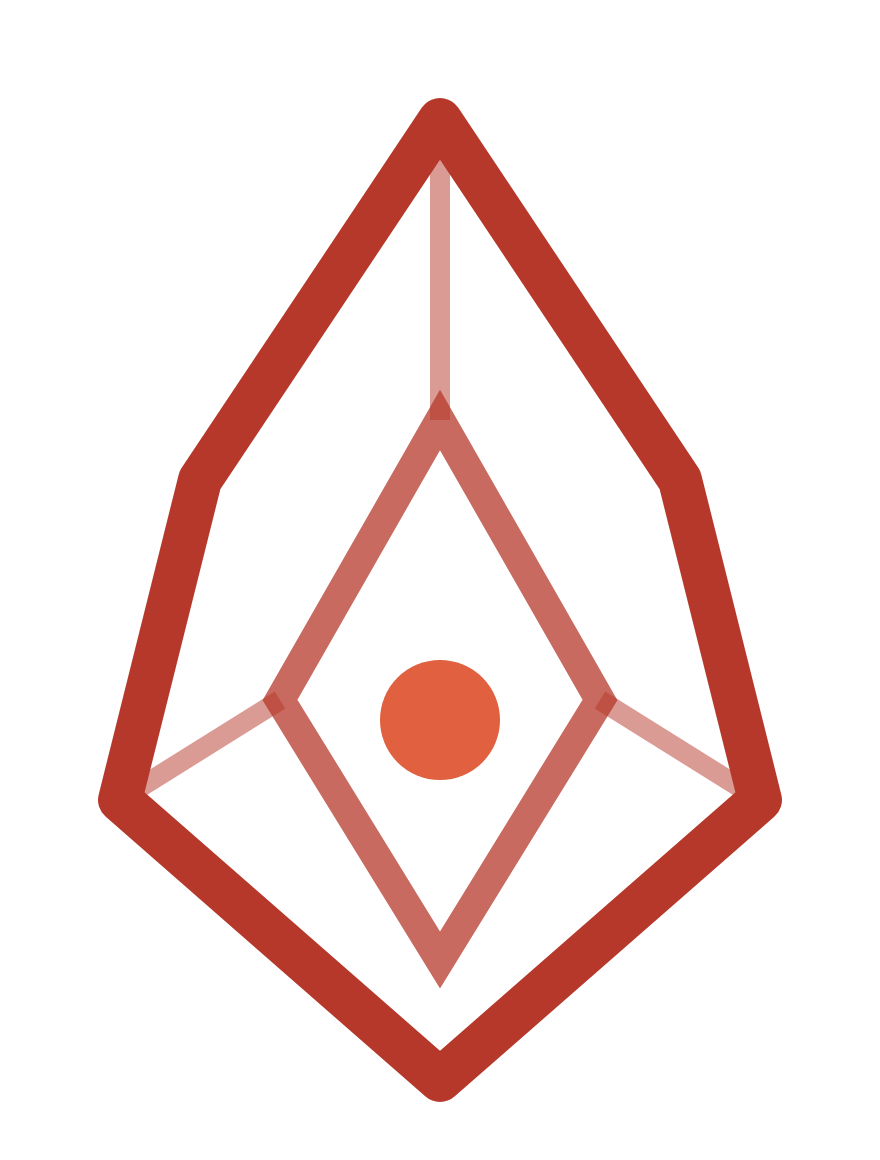
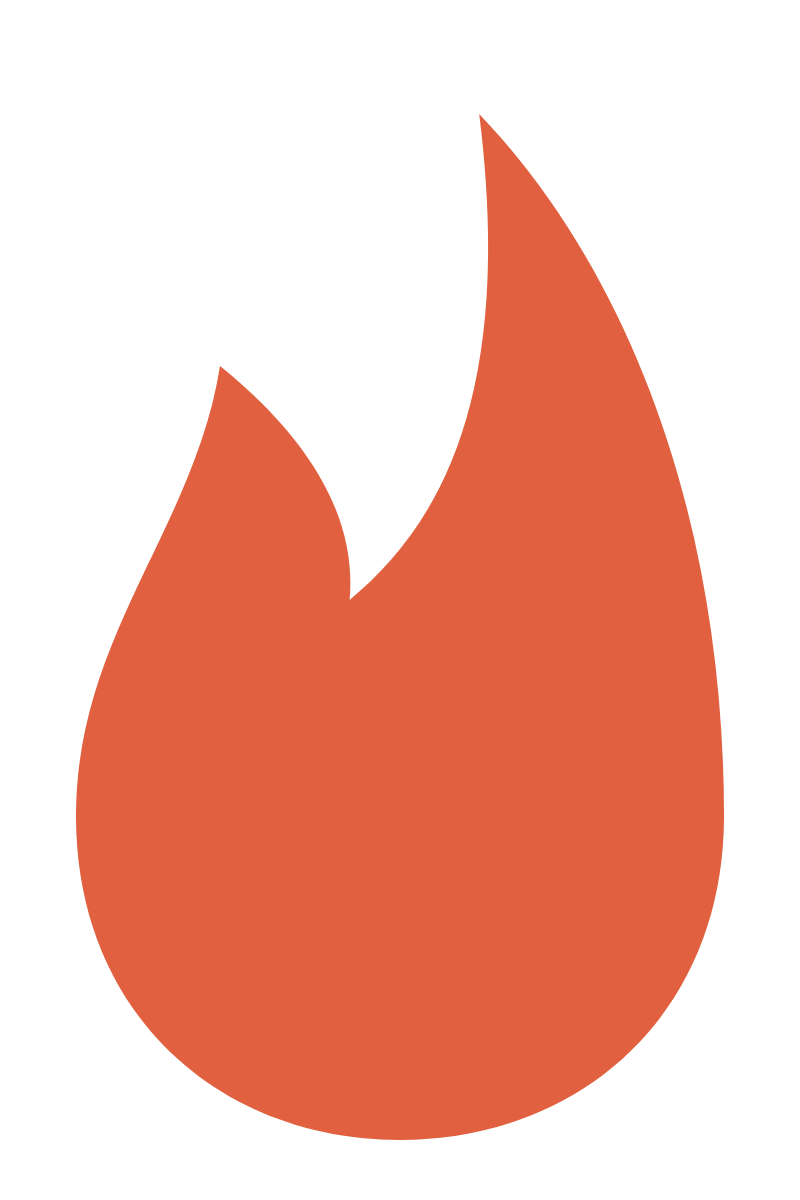
site update 2026-10-20 14:24
Claude-Session: https://claude.ai/code/session_019xwSd8AaEPZGR6L1pyav7d

diff --git a/index.html b/index.html
@@ -37,6 +37,8 @@ header{display:flex;align-items:center;justify-content:space-between;flex-wrap:w
 .word{display:inline-flex;align-items:baseline}
 .word .i{position:relative;display:inline-block}
 .word .i i{position:absolute;left:50%;border-radius:50%;background:var(--core);transform:translateX(-50%)}
+.word .i svg.fl{position:absolute;left:50%;top:.047em;width:.14em;height:.21em;transform:translateX(calc(-50% + .014em));overflow:visible}
+.word{letter-spacing:-.025em}
 nav{display:flex;gap:26px;flex-wrap:wrap;font-family:'IBM Plex Mono';font-size:12px;letter-spacing:2px;text-transform:lowercase}
 .hero{display:flex;flex-wrap:wrap;align-items:center;gap:56px;padding:64px 0 96px}
 .hero .copy{flex:999 1 520px;min-width:0;display:flex;flex-direction:column;gap:26px}
@@ -84,10 +86,7 @@ footer nav a{color:var(--muted)}footer nav a:hover{color:var(--core)}
 <body>
 <div class="wrap">
 <header>
-  <a class="logo" href="#top" aria-label="fâni home">
-    <svg width="22" height="30" viewBox="28 12 44 58" aria-hidden="true"><polygon points="50,18 62,36 66,52 50,66 34,52 38,36" fill="none" stroke="#B5382A" stroke-width="3.2" stroke-linejoin="round"/><polygon points="50,33 58,47 50,60 42,47" fill="none" stroke="#B5382A" stroke-width="2.2" opacity=".75"/><circle cx="50" cy="48" r="3.4" fill="#E0603F"/></svg>
-    <span class="word">fân<span class="i">ı<i style="top:4px;width:3px;height:3px"></i></span></span>
-  </a>
+  <a class="logo" href="#top" aria-label="fâni home"><span class="word">fân<span class="i">ı<svg class="fl" viewBox="0 0 20 30" aria-hidden="true"><path d="M10 30 C 5 30 1 26.5 1 21 C 1 14 8 11.5 12.2 1.5 C 16.5 6 19 13 19 21 C 19 26.5 15 30 10 30 Z" fill="#E0603F"/></svg></span></span></a>
   <nav><a href="#story">story</a><a href="#how">how it works</a><a href="#ledger">ledger</a><a href="verdicts.html" style="color:var(--core)">verdicts</a><a href="#roadmap">roadmap</a><a href="#manifesto">manifesto</a><a href="https://x.com/fanidotlive">x</a><a href="https://github.com/fanilive">github</a></nav>
 </header>
 
@@ -103,8 +102,8 @@ footer nav a{color:var(--muted)}footer nav a:hover{color:var(--core)}
   <div class="candlebox">
     <div class="candle">
       <svg id="candle" width="180" height="288" viewBox="0 0 100 160" role="img" aria-label="fâni candle; the wax level is the wallet">
-        <ellipse cx="50" cy="44" rx="36" ry="40" fill="#E0603F" opacity=".07"/>
-        <g id="flame"><polygon points="50,18 62,36 66,52 50,66 34,52 38,36" fill="none" stroke="#B5382A" stroke-width="2.2" stroke-linejoin="round"/><polygon points="50,33 58,47 50,60 42,47" fill="none" stroke="#B5382A" stroke-width="1.5" opacity=".75"/><line x1="50" y1="18" x2="50" y2="33" stroke="#B5382A" stroke-width="1" opacity=".5"/><line x1="34" y1="52" x2="42" y2="47" stroke="#B5382A" stroke-width="1" opacity=".5"/><line x1="66" y1="52" x2="58" y2="47" stroke="#B5382A" stroke-width="1" opacity=".5"/><circle cx="50" cy="48" r="3" fill="#E0603F"/></g>
+        <ellipse cx="50" cy="48" rx="30" ry="34" fill="#E0603F" opacity=".08"/>
+        <g id="flame" transform="translate(39,32) scale(1.1)"><path d="M10 30 C 5 30 1 26.5 1 21 C 1 16 4.3 13 5 8.5 C 7.6 10.6 8.8 12.8 8.6 15 C 11 13 13.2 9.5 12.2 1.5 C 16.5 6 19 13 19 21 C 19 26.5 15 30 10 30 Z" fill="#E0603F"/></g>
         <line x1="50" y1="66" x2="50" y2="74" stroke="#ECE7DD" stroke-width="2.2" stroke-linecap="round"/>
         <rect x="33" y="74" width="34" height="75" rx="2" fill="none" stroke="#ECE7DD" stroke-width="2.2"/>
         <rect id="wax" x="35" y="96" width="30" height="51" rx="1" fill="#ECE7DD" opacity=".12"/>

diff --git a/verdicts.html b/verdicts.html
@@ -30,6 +30,8 @@ header{display:flex;align-items:center;justify-content:space-between;flex-wrap:w
 .word{display:inline-flex;align-items:baseline}
 .word .i{position:relative;display:inline-block}
 .word .i i{position:absolute;left:50%;border-radius:50%;background:var(--core);transform:translateX(-50%)}
+.word .i svg.fl{position:absolute;left:50%;top:.047em;width:.14em;height:.21em;transform:translateX(calc(-50% + .014em));overflow:visible}
+.word{letter-spacing:-.025em}
 nav{display:flex;gap:26px;flex-wrap:wrap;font-family:'IBM Plex Mono';font-size:12px;letter-spacing:2px;text-transform:lowercase}
 .hero{display:flex;flex-wrap:wrap;align-items:center;gap:56px;padding:64px 0 96px}
 .hero .copy{flex:999 1 520px;min-width:0;display:flex;flex-direction:column;gap:26px}
@@ -90,10 +92,7 @@ footer nav a{color:var(--muted)}footer nav a:hover{color:var(--core)}
 <body>
 <div class="wrap">
 <header>
-  <a class="logo" href="#top" aria-label="fâni home">
-    <svg width="22" height="30" viewBox="28 12 44 58" aria-hidden="true"><polygon points="50,18 62,36 66,52 50,66 34,52 38,36" fill="none" stroke="#B5382A" stroke-width="3.2" stroke-linejoin="round"/><polygon points="50,33 58,47 50,60 42,47" fill="none" stroke="#B5382A" stroke-width="2.2" opacity=".75"/><circle cx="50" cy="48" r="3.4" fill="#E0603F"/></svg>
-    <span class="word">fân<span class="i">ı<i style="top:4px;width:3px;height:3px"></i></span></span>
-  </a>
+  <a class="logo" href="#top" aria-label="fâni home"><span class="word">fân<span class="i">ı<svg class="fl" viewBox="0 0 20 30" aria-hidden="true"><path d="M10 30 C 5 30 1 26.5 1 21 C 1 14 8 11.5 12.2 1.5 C 16.5 6 19 13 19 21 C 19 26.5 15 30 10 30 Z" fill="#E0603F"/></svg></span></span></a>
   <nav><a href="index.html#story">story</a><a href="index.html#how">how it works</a><a href="index.html#ledger">ledger</a><a href="verdicts.html" style="color:var(--core)">verdicts</a><a href="index.html#roadmap">roadmap</a><a href="index.html#manifesto">manifesto</a><a href="https://x.com/fanidotlive">x</a><a href="https://github.com/fanilive">github</a></nav>
 </header>
 <div class="hero" style="padding:48px 0 40px">
